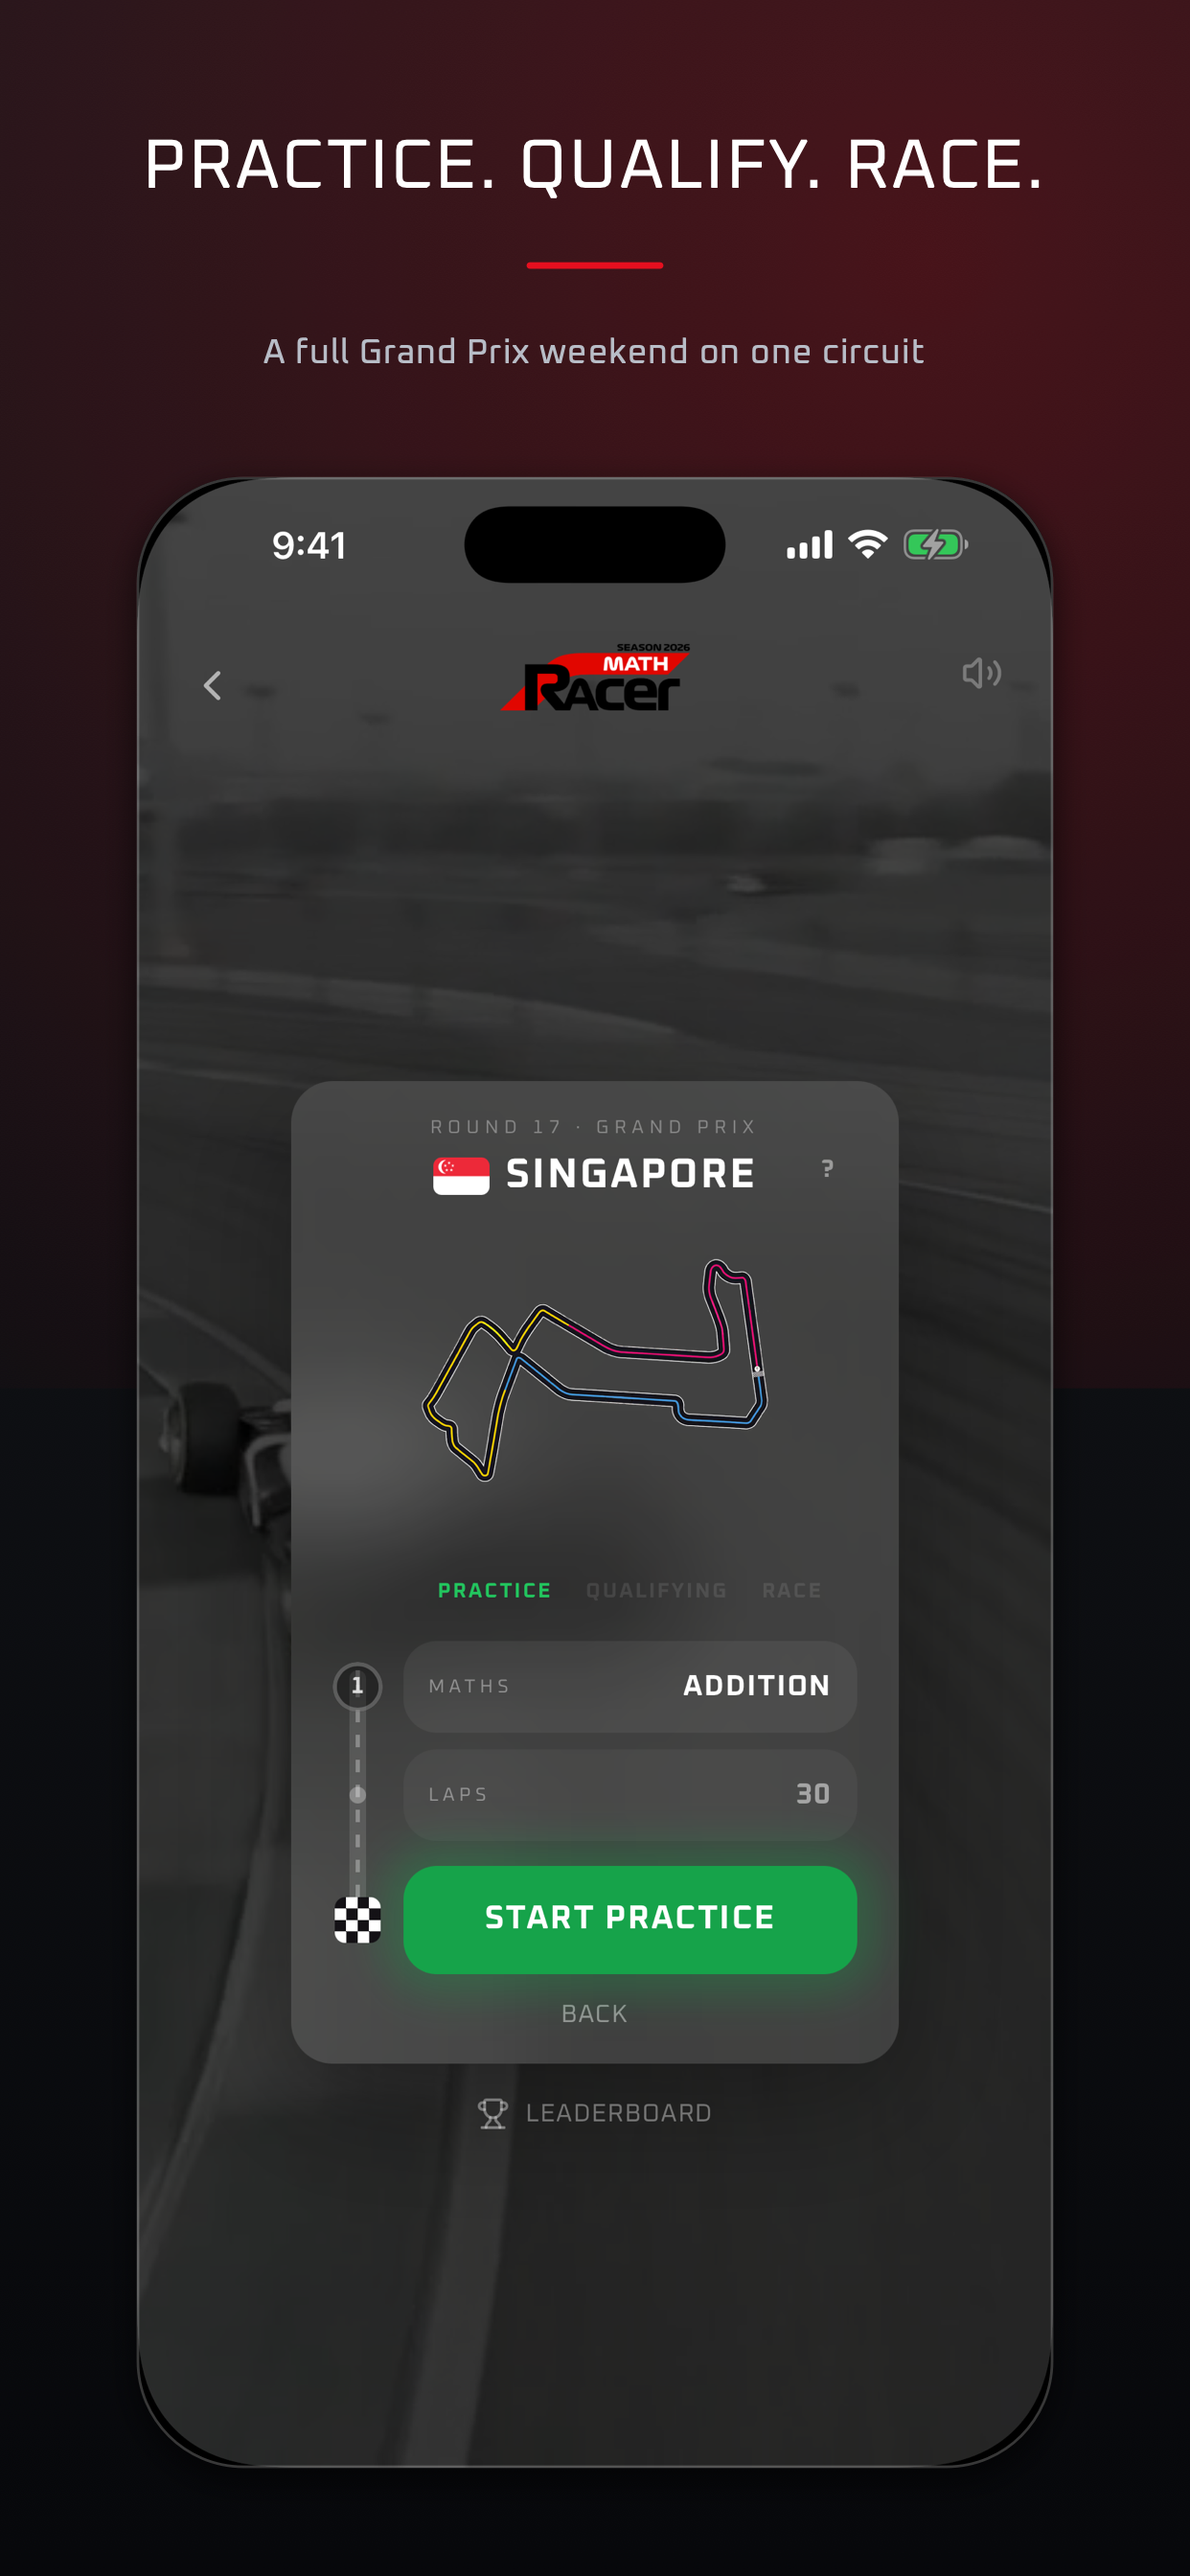
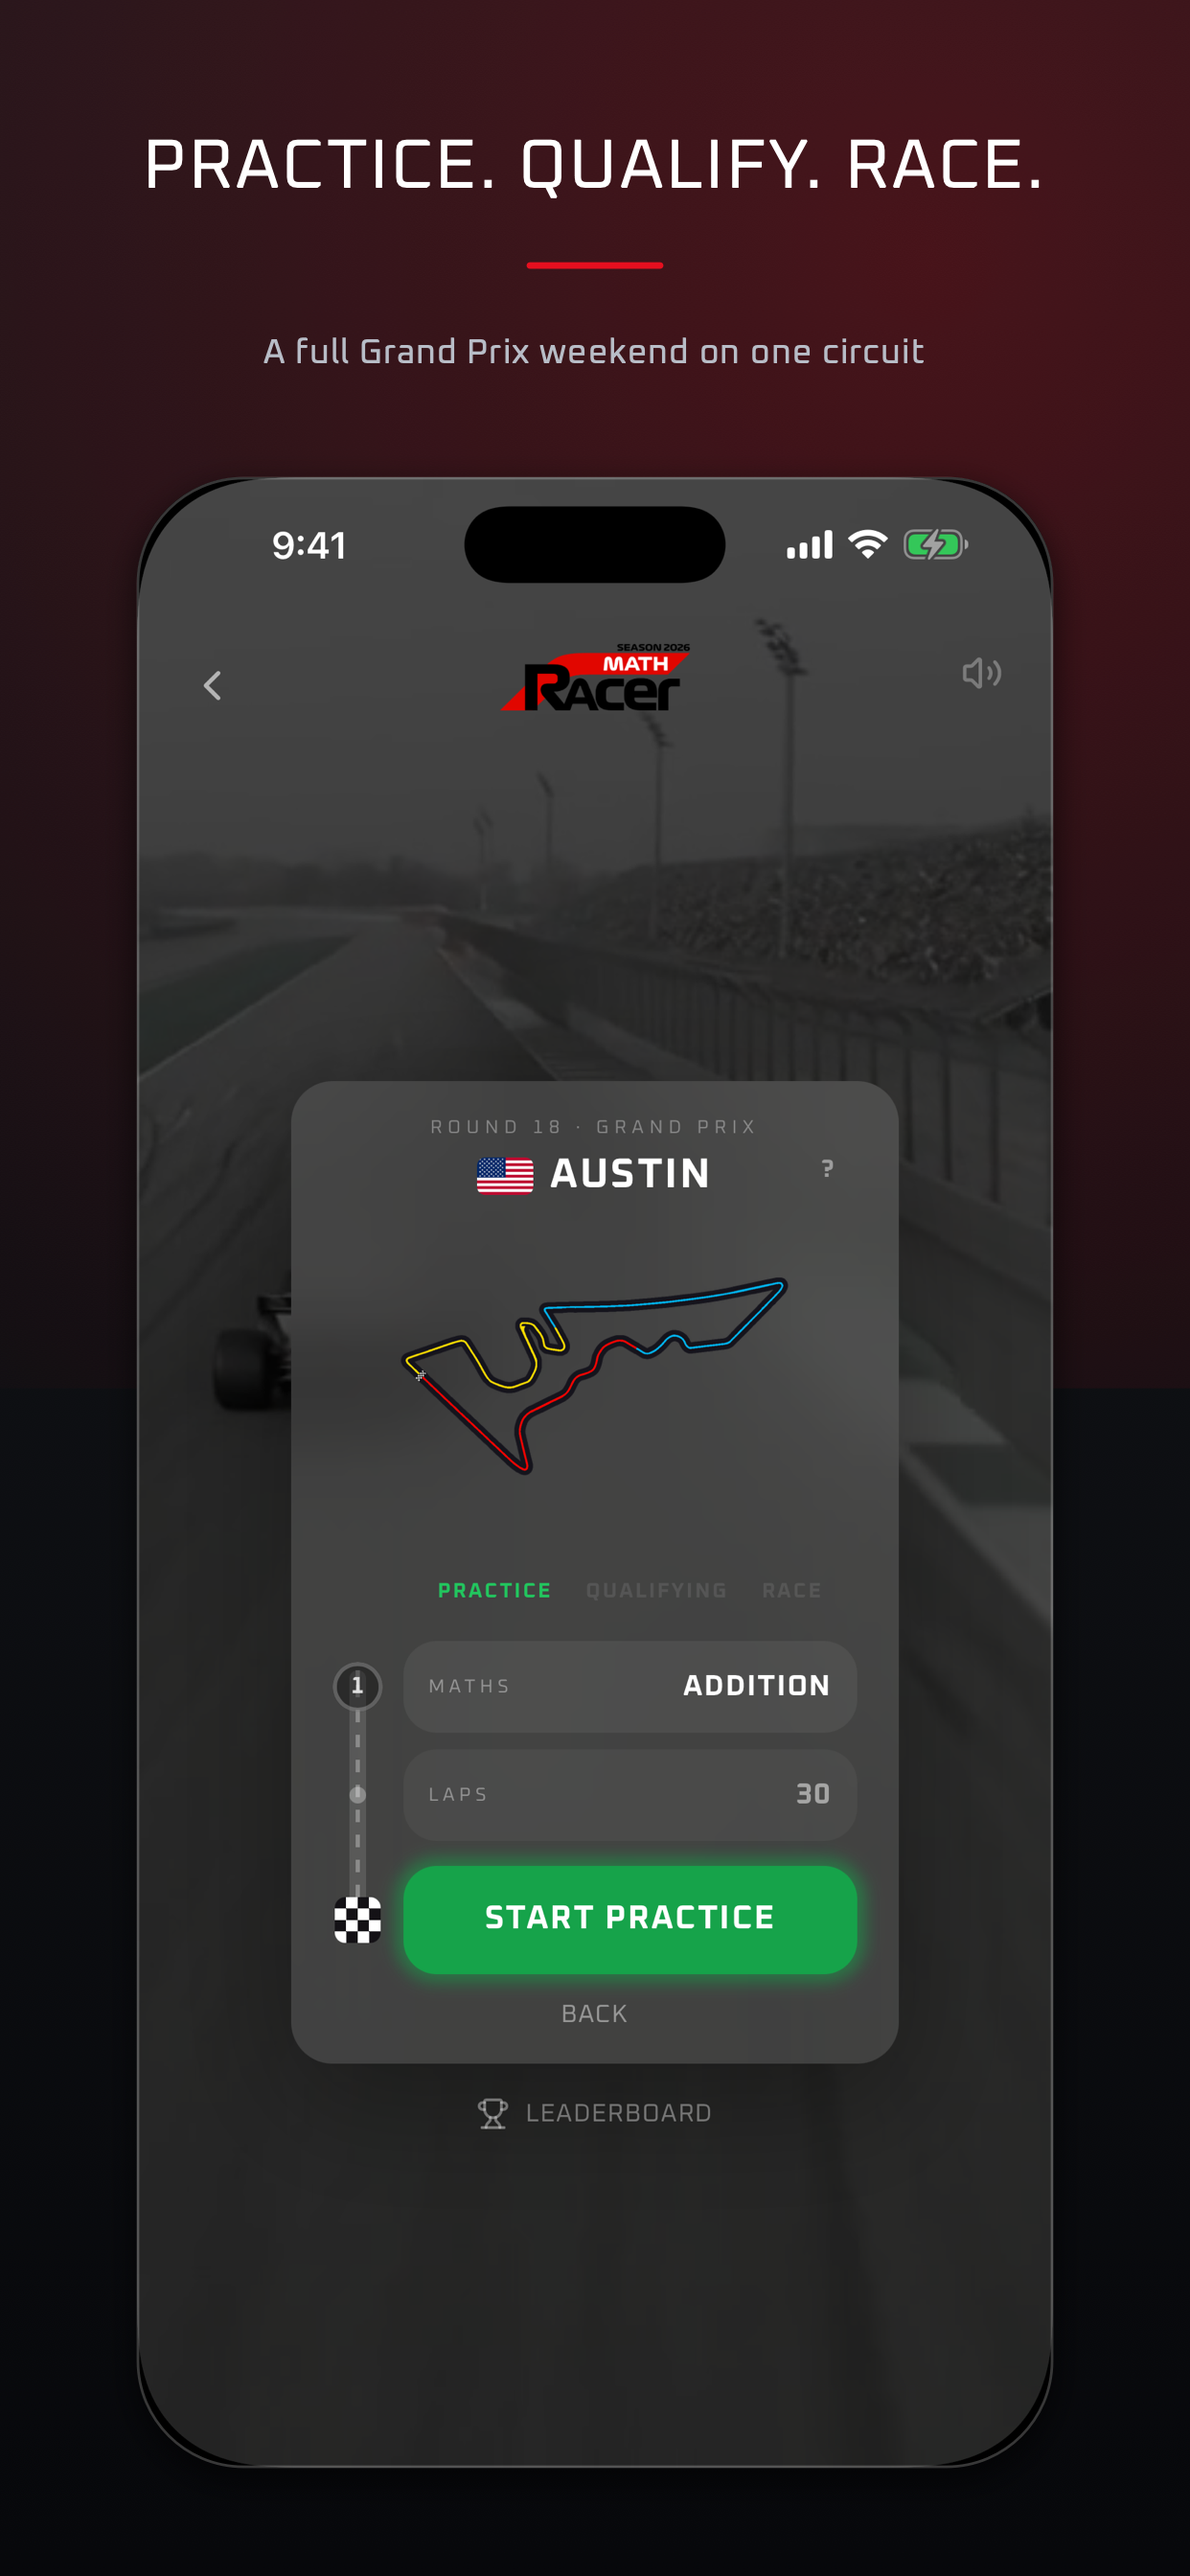
Retake the App Store cards for Austin
The cards that show the current Grand Prix still showed Round 17 /
Singapore. Recaptured on the iOS 26.5 simulators with 1.3.18:

- iPhone 04_grand_prix, 05_paddock (6.9" and the 6.3" copies)
- iPad 01_race (header chip), 04_grand_prix, 05_paddock

README: the last-captured round, and a note that this time the rotated
iPad took taps in upright landscape points, not portrait ones.

diff --git a/app_store/README.md b/app_store/README.md
@@ -27,7 +27,7 @@ product page.
 | `08_superlicence` | Superlicence granted. | Finish Driving School and it joins your trophy cabinet |
 
 `04`, `05` and the iPad `01` (its header chip) show the current Grand Prix. They
-were last captured on Round 17 / Singapore. `02` shows Race Day's lap count
+were last captured on Round 18 / Austin. `02` shows Race Day's lap count
 (`/56`, from Round 16 / Malaysia) but no circuit name. `06` shows the Reaction Test target
 (`REACTION_LICENCE_MS`, 0.40s), so retake it if that changes.
 
@@ -66,8 +66,10 @@ Captions use Oxanium, the same font as the app.
   Simulator.app isn't installed here, and on iPadOS 26 an app's own orientation
   lock turns into a floating window instead of a rotation. Panel taps stay in
   portrait coordinates after rotating: `x = landscapeY`, `y = 1376 − landscapeX`
-  (points), for the rotation used on 2026-09-21 and 2026-09-28. `simctl io
-  screenshot` still returns the frame upright at 2752 × 2064. Grand Prix practice
+  (points), for the rotation used on 2026-09-21 and 2026-09-28. On 2026-10-20
+  portrait taps did nothing and upright landscape points (1376 × 1032, read off
+  the `simctl io screenshot` at half its pixels) worked instead, so test one tap
+  first. `simctl io screenshot` still returns the frame upright at 2752 × 2064. Grand Prix practice
   has no pause button, so leave the session by tapping the header logo: it goes
   to the title screen without finishing.
 - **Paddock and setup cards (`04`, `05`)**: the backgrounds are looping videos.
